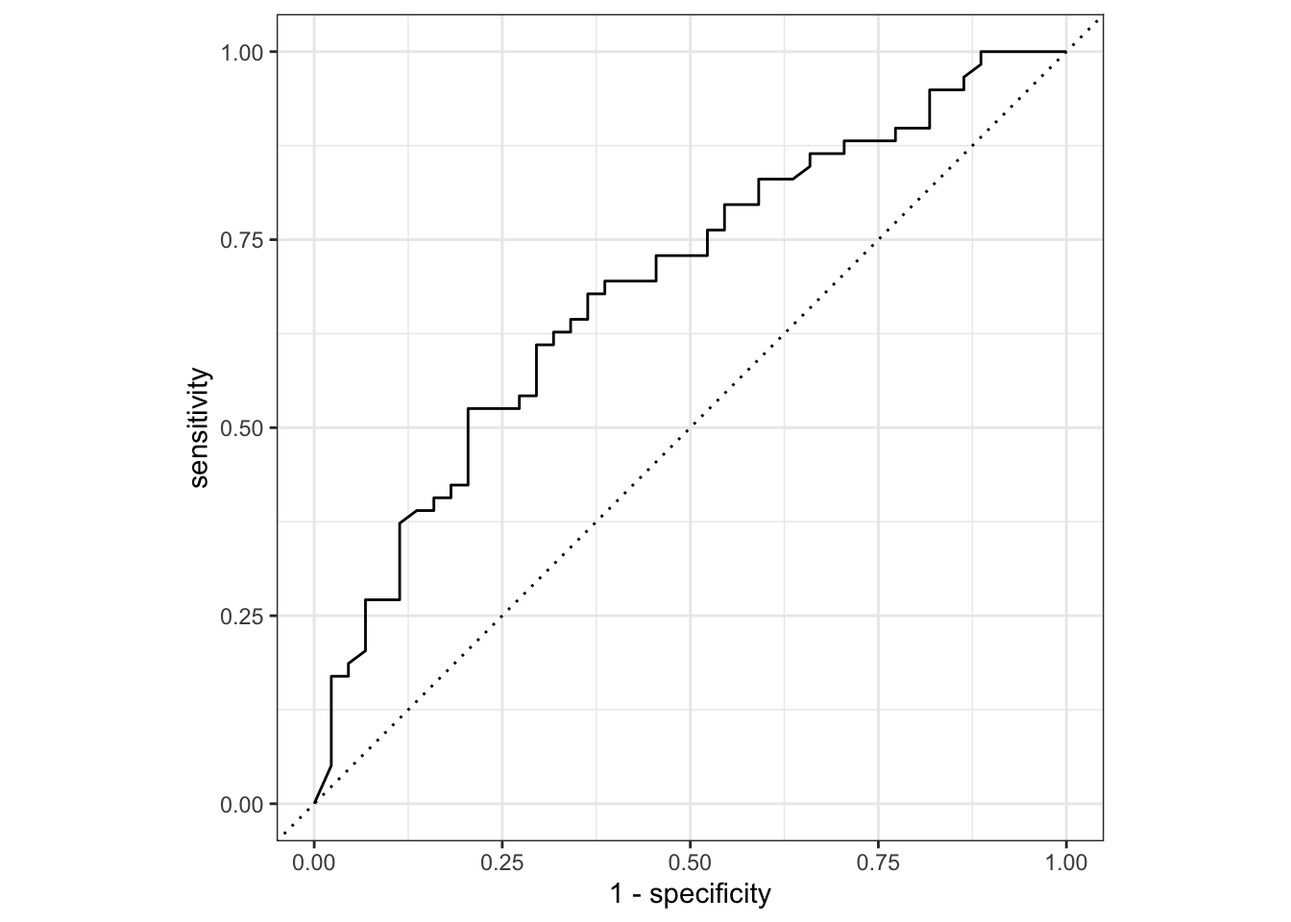
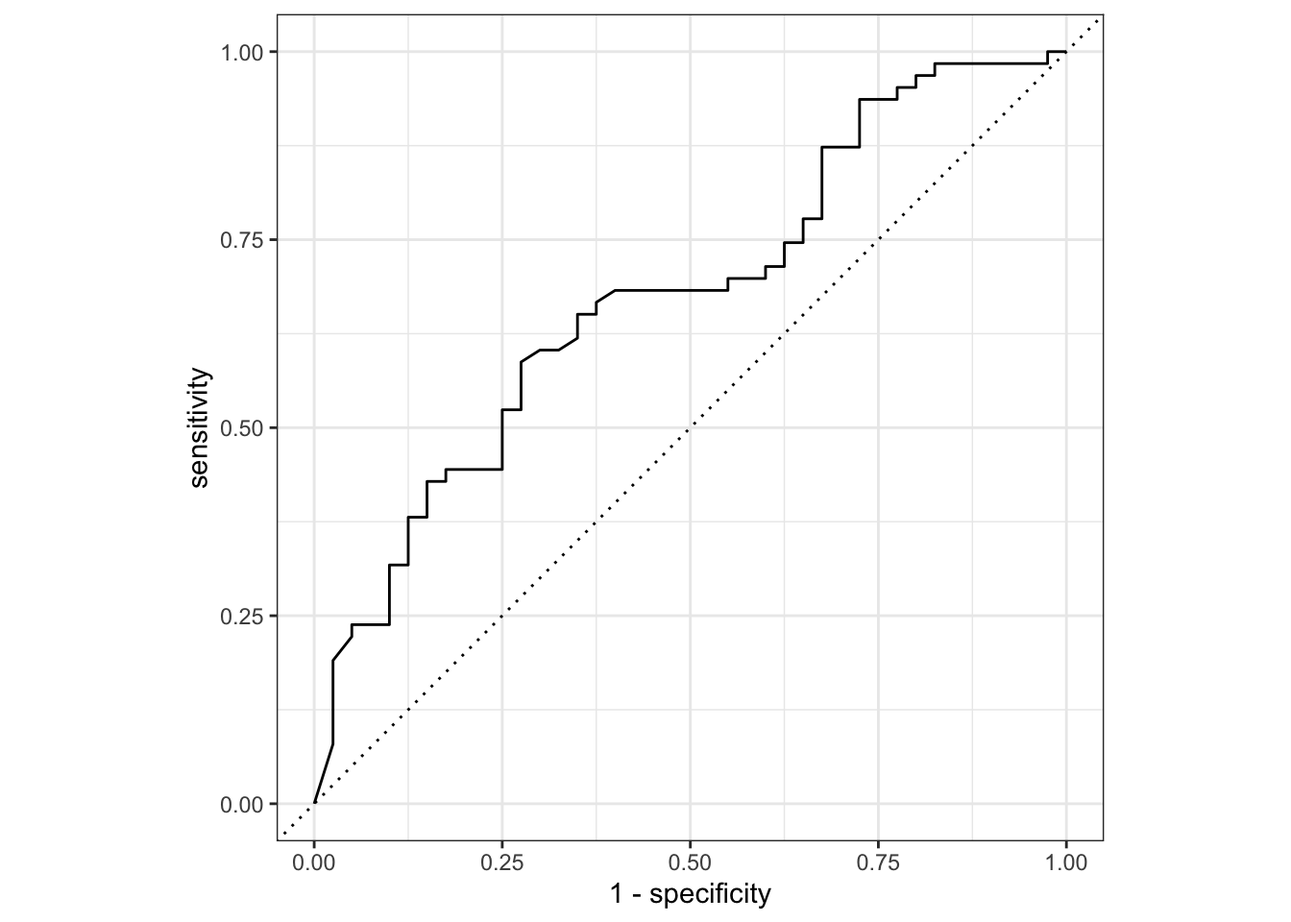
added functions

diff --git a/docs/classification-knn.html b/docs/classification-knn.html
@@ -593,7 +593,7 @@ code span.wa { color: #60a0b0; font-weight: bold; font-style: italic; } /* Warni
 <div class="cell">
 
 </div>
-<p><em>Version vom November 25, 2022 um 15:13:22</em></p>
+<p><em>Version vom November 25, 2022 um 15:40:11</em></p>
 <div class="quarto-figure quarto-figure-center">
 <figure class="figure">
 <p><img src="images/caution.png" class="img-fluid figure-img" style="width:50.0%"></p>
@@ -916,7 +916,7 @@ code span.wa { color: #60a0b0; font-weight: bold; font-style: italic; } /* Warni
 <pre><code># A tibble: 1 × 3
   .metric .estimator .estimate
   &lt;chr&gt;   &lt;chr&gt;          &lt;dbl&gt;
-1 roc_auc binary         0.690</code></pre>
+1 roc_auc binary         0.675</code></pre>
 </div>
 </div>
 <div class="cell">
@@ -926,24 +926,45 @@ code span.wa { color: #60a0b0; font-weight: bold; font-style: italic; } /* Warni
 <pre><code># A tibble: 1 × 3
   .metric  .estimator .estimate
   &lt;chr&gt;    &lt;chr&gt;          &lt;dbl&gt;
-1 accuracy binary         0.650</code></pre>
+1 accuracy binary         0.660</code></pre>
 </div>
 </div>
 <div class="cell">
 <div class="sourceCode cell-code" id="cb14"><pre class="sourceCode r code-with-copy"><code class="sourceCode r"><span id="cb14-1"><a href="#cb14-1" aria-hidden="true" tabindex="-1"></a>pig_cm <span class="ot">&lt;-</span> pig_aug <span class="sc">%&gt;%</span> </span>
 <span id="cb14-2"><a href="#cb14-2" aria-hidden="true" tabindex="-1"></a>  <span class="fu">conf_mat</span>(infected, .pred_class)</span>
 <span id="cb14-3"><a href="#cb14-3" aria-hidden="true" tabindex="-1"></a></span>
-<span id="cb14-4"><a href="#cb14-4" aria-hidden="true" tabindex="-1"></a><span class="fu">autoplot</span>(pig_cm, <span class="at">type =</span> <span class="st">"mosaic"</span>)</span></code><button title="In die Zwischenablage kopieren" class="code-copy-button"><i class="bi"></i></button></pre></div>
+<span id="cb14-4"><a href="#cb14-4" aria-hidden="true" tabindex="-1"></a>pig_cm <span class="sc">%&gt;%</span> <span class="fu">summary</span>()</span></code><button title="In die Zwischenablage kopieren" class="code-copy-button"><i class="bi"></i></button></pre></div>
+<div class="cell-output cell-output-stdout">
+<pre><code># A tibble: 13 × 3
+   .metric              .estimator .estimate
+   &lt;chr&gt;                &lt;chr&gt;          &lt;dbl&gt;
+ 1 accuracy             binary         0.660
+ 2 kap                  binary         0.201
+ 3 sens                 binary         0.275
+ 4 spec                 binary         0.905
+ 5 ppv                  binary         0.647
+ 6 npv                  binary         0.663
+ 7 mcc                  binary         0.236
+ 8 j_index              binary         0.180
+ 9 bal_accuracy         binary         0.590
+10 detection_prevalence binary         0.165
+11 precision            binary         0.647
+12 recall               binary         0.275
+13 f_meas               binary         0.386</code></pre>
+</div>
+</div>
+<div class="cell">
+<div class="sourceCode cell-code" id="cb16"><pre class="sourceCode r code-with-copy"><code class="sourceCode r"><span id="cb16-1"><a href="#cb16-1" aria-hidden="true" tabindex="-1"></a><span class="fu">autoplot</span>(pig_cm, <span class="at">type =</span> <span class="st">"mosaic"</span>)</span></code><button title="In die Zwischenablage kopieren" class="code-copy-button"><i class="bi"></i></button></pre></div>
 <div class="cell-output-display">
-<p><img src="classification-knn_files/figure-html/unnamed-chunk-14-1.png" class="img-fluid" width="672"></p>
+<p><img src="classification-knn_files/figure-html/unnamed-chunk-15-1.png" class="img-fluid" width="672"></p>
 </div>
 </div>
 </section>
 <section id="resampling" class="level2" data-number="52.5">
 <h2 data-number="52.5" class="anchored" data-anchor-id="resampling"><span class="header-section-number">52.5</span> Resampling</h2>
 <div class="cell">
-<div class="sourceCode cell-code" id="cb15"><pre class="sourceCode r code-with-copy"><code class="sourceCode r"><span id="cb15-1"><a href="#cb15-1" aria-hidden="true" tabindex="-1"></a>folds <span class="ot">&lt;-</span> <span class="fu">vfold_cv</span>(pig_train_data, <span class="at">v =</span> <span class="dv">10</span>)</span>
-<span id="cb15-2"><a href="#cb15-2" aria-hidden="true" tabindex="-1"></a>folds</span></code><button title="In die Zwischenablage kopieren" class="code-copy-button"><i class="bi"></i></button></pre></div>
+<div class="sourceCode cell-code" id="cb17"><pre class="sourceCode r code-with-copy"><code class="sourceCode r"><span id="cb17-1"><a href="#cb17-1" aria-hidden="true" tabindex="-1"></a>folds <span class="ot">&lt;-</span> <span class="fu">vfold_cv</span>(pig_train_data, <span class="at">v =</span> <span class="dv">10</span>)</span>
+<span id="cb17-2"><a href="#cb17-2" aria-hidden="true" tabindex="-1"></a>folds</span></code><button title="In die Zwischenablage kopieren" class="code-copy-button"><i class="bi"></i></button></pre></div>
 <div class="cell-output cell-output-stdout">
 <pre><code>#  10-fold cross-validation 
 # A tibble: 10 × 2
@@ -962,28 +983,28 @@ code span.wa { color: #60a0b0; font-weight: bold; font-style: italic; } /* Warni
 </div>
 </div>
 <div class="cell">
-<div class="sourceCode cell-code" id="cb17"><pre class="sourceCode r code-with-copy"><code class="sourceCode r"><span id="cb17-1"><a href="#cb17-1" aria-hidden="true" tabindex="-1"></a>pig_cv_fit <span class="ot">&lt;-</span> pig_wflow <span class="sc">%&gt;%</span> </span>
-<span id="cb17-2"><a href="#cb17-2" aria-hidden="true" tabindex="-1"></a>  <span class="fu">fit_resamples</span>(folds)</span></code><button title="In die Zwischenablage kopieren" class="code-copy-button"><i class="bi"></i></button></pre></div>
+<div class="sourceCode cell-code" id="cb19"><pre class="sourceCode r code-with-copy"><code class="sourceCode r"><span id="cb19-1"><a href="#cb19-1" aria-hidden="true" tabindex="-1"></a>pig_cv_fit <span class="ot">&lt;-</span> pig_wflow <span class="sc">%&gt;%</span> </span>
+<span id="cb19-2"><a href="#cb19-2" aria-hidden="true" tabindex="-1"></a>  <span class="fu">fit_resamples</span>(folds)</span></code><button title="In die Zwischenablage kopieren" class="code-copy-button"><i class="bi"></i></button></pre></div>
 </div>
 <div class="cell">
-<div class="sourceCode cell-code" id="cb18"><pre class="sourceCode r code-with-copy"><code class="sourceCode r"><span id="cb18-1"><a href="#cb18-1" aria-hidden="true" tabindex="-1"></a><span class="fu">collect_metrics</span>(pig_cv_fit)</span></code><button title="In die Zwischenablage kopieren" class="code-copy-button"><i class="bi"></i></button></pre></div>
+<div class="sourceCode cell-code" id="cb20"><pre class="sourceCode r code-with-copy"><code class="sourceCode r"><span id="cb20-1"><a href="#cb20-1" aria-hidden="true" tabindex="-1"></a><span class="fu">collect_metrics</span>(pig_cv_fit)</span></code><button title="In die Zwischenablage kopieren" class="code-copy-button"><i class="bi"></i></button></pre></div>
 <div class="cell-output cell-output-stdout">
 <pre><code># A tibble: 2 × 6
   .metric  .estimator  mean     n std_err .config             
   &lt;chr&gt;    &lt;chr&gt;      &lt;dbl&gt; &lt;int&gt;   &lt;dbl&gt; &lt;chr&gt;               
-1 accuracy binary     0.666    10  0.0323 Preprocessor1_Model1
-2 roc_auc  binary     0.642    10  0.0490 Preprocessor1_Model1</code></pre>
+1 accuracy binary     0.673    10  0.0235 Preprocessor1_Model1
+2 roc_auc  binary     0.686    10  0.0318 Preprocessor1_Model1</code></pre>
 </div>
 </div>
 </section>
 <section id="tuning" class="level2" data-number="52.6">
 <h2 data-number="52.6" class="anchored" data-anchor-id="tuning"><span class="header-section-number">52.6</span> Tuning</h2>
 <div class="cell">
-<div class="sourceCode cell-code" id="cb20"><pre class="sourceCode r code-with-copy"><code class="sourceCode r"><span id="cb20-1"><a href="#cb20-1" aria-hidden="true" tabindex="-1"></a>tune_spec <span class="ot">&lt;-</span> <span class="fu">nearest_neighbor</span>(<span class="at">neighbors =</span> <span class="fu">tune</span>(), <span class="at">weight_func =</span> <span class="fu">tune</span>(), <span class="at">dist_power =</span> <span class="fu">tune</span>()) <span class="sc">%&gt;%</span> </span>
-<span id="cb20-2"><a href="#cb20-2" aria-hidden="true" tabindex="-1"></a>  <span class="fu">set_engine</span>(<span class="st">"kknn"</span>) <span class="sc">%&gt;%</span> </span>
-<span id="cb20-3"><a href="#cb20-3" aria-hidden="true" tabindex="-1"></a>  <span class="fu">set_mode</span>(<span class="st">"classification"</span>) </span>
-<span id="cb20-4"><a href="#cb20-4" aria-hidden="true" tabindex="-1"></a></span>
-<span id="cb20-5"><a href="#cb20-5" aria-hidden="true" tabindex="-1"></a>tune_spec</span></code><button title="In die Zwischenablage kopieren" class="code-copy-button"><i class="bi"></i></button></pre></div>
+<div class="sourceCode cell-code" id="cb22"><pre class="sourceCode r code-with-copy"><code class="sourceCode r"><span id="cb22-1"><a href="#cb22-1" aria-hidden="true" tabindex="-1"></a>tune_spec <span class="ot">&lt;-</span> <span class="fu">nearest_neighbor</span>(<span class="at">neighbors =</span> <span class="fu">tune</span>(), <span class="at">weight_func =</span> <span class="fu">tune</span>(), <span class="at">dist_power =</span> <span class="fu">tune</span>()) <span class="sc">%&gt;%</span> </span>
+<span id="cb22-2"><a href="#cb22-2" aria-hidden="true" tabindex="-1"></a>  <span class="fu">set_engine</span>(<span class="st">"kknn"</span>) <span class="sc">%&gt;%</span> </span>
+<span id="cb22-3"><a href="#cb22-3" aria-hidden="true" tabindex="-1"></a>  <span class="fu">set_mode</span>(<span class="st">"classification"</span>) </span>
+<span id="cb22-4"><a href="#cb22-4" aria-hidden="true" tabindex="-1"></a></span>
+<span id="cb22-5"><a href="#cb22-5" aria-hidden="true" tabindex="-1"></a>tune_spec</span></code><button title="In die Zwischenablage kopieren" class="code-copy-button"><i class="bi"></i></button></pre></div>
 <div class="cell-output cell-output-stdout">
 <pre><code>K-Nearest Neighbor Model Specification (classification)
 
@@ -997,78 +1018,78 @@ Computational engine: kknn </code></pre>
 </div>
 <p>Ich nutze hier <code>levels = 2</code> damit hier die Ausführung nicht so lange läuft. Das ist natürlich etwas zu wenig. Fange am besten mit <code>levels = 5</code> an und schaue, wie lange das zusammen mit der Kreuzvalidierung dann dauert.</p>
 <div class="cell">
-<div class="sourceCode cell-code" id="cb22"><pre class="sourceCode r code-with-copy"><code class="sourceCode r"><span id="cb22-1"><a href="#cb22-1" aria-hidden="true" tabindex="-1"></a>pig_grid <span class="ot">&lt;-</span> <span class="fu">grid_regular</span>(<span class="fu">neighbors</span>(),</span>
-<span id="cb22-2"><a href="#cb22-2" aria-hidden="true" tabindex="-1"></a>                          <span class="fu">weight_func</span>(),</span>
-<span id="cb22-3"><a href="#cb22-3" aria-hidden="true" tabindex="-1"></a>                          <span class="fu">dist_power</span>(),</span>
-<span id="cb22-4"><a href="#cb22-4" aria-hidden="true" tabindex="-1"></a>                          <span class="at">levels =</span> <span class="dv">2</span>)</span></code><button title="In die Zwischenablage kopieren" class="code-copy-button"><i class="bi"></i></button></pre></div>
+<div class="sourceCode cell-code" id="cb24"><pre class="sourceCode r code-with-copy"><code class="sourceCode r"><span id="cb24-1"><a href="#cb24-1" aria-hidden="true" tabindex="-1"></a>pig_grid <span class="ot">&lt;-</span> <span class="fu">grid_regular</span>(<span class="fu">neighbors</span>(),</span>
+<span id="cb24-2"><a href="#cb24-2" aria-hidden="true" tabindex="-1"></a>                          <span class="fu">weight_func</span>(),</span>
+<span id="cb24-3"><a href="#cb24-3" aria-hidden="true" tabindex="-1"></a>                          <span class="fu">dist_power</span>(),</span>
+<span id="cb24-4"><a href="#cb24-4" aria-hidden="true" tabindex="-1"></a>                          <span class="at">levels =</span> <span class="dv">2</span>)</span></code><button title="In die Zwischenablage kopieren" class="code-copy-button"><i class="bi"></i></button></pre></div>
 </div>
 <p>Eigentlich ist eine 10-fache Kreuzvalidierung mit <span class="math inline">\(v=10\)</span> besser. Das dauert mir dann aber hier im Skript viel zu lange. Deshalb habe ich hier nur <span class="math inline">\(v=3\)</span> gewählt. Wenn du das Tuning rechnest, nimmst du natürlich eine 10-fach Kreuzvalidierung.</p>
 <div class="cell">
-<div class="sourceCode cell-code" id="cb23"><pre class="sourceCode r code-with-copy"><code class="sourceCode r"><span id="cb23-1"><a href="#cb23-1" aria-hidden="true" tabindex="-1"></a>pig_folds <span class="ot">&lt;-</span> <span class="fu">vfold_cv</span>(pig_train_data, <span class="at">v =</span> <span class="dv">3</span>)</span></code><button title="In die Zwischenablage kopieren" class="code-copy-button"><i class="bi"></i></button></pre></div>
+<div class="sourceCode cell-code" id="cb25"><pre class="sourceCode r code-with-copy"><code class="sourceCode r"><span id="cb25-1"><a href="#cb25-1" aria-hidden="true" tabindex="-1"></a>pig_folds <span class="ot">&lt;-</span> <span class="fu">vfold_cv</span>(pig_train_data, <span class="at">v =</span> <span class="dv">3</span>)</span></code><button title="In die Zwischenablage kopieren" class="code-copy-button"><i class="bi"></i></button></pre></div>
 </div>
 <div class="cell">
-<div class="sourceCode cell-code" id="cb24"><pre class="sourceCode r code-with-copy"><code class="sourceCode r"><span id="cb24-1"><a href="#cb24-1" aria-hidden="true" tabindex="-1"></a>pig_tune_wflow <span class="ot">&lt;-</span> <span class="fu">workflow</span>() <span class="sc">%&gt;%</span> </span>
-<span id="cb24-2"><a href="#cb24-2" aria-hidden="true" tabindex="-1"></a>  <span class="fu">add_model</span>(tune_spec) <span class="sc">%&gt;%</span> </span>
-<span id="cb24-3"><a href="#cb24-3" aria-hidden="true" tabindex="-1"></a>  <span class="fu">add_recipe</span>(pig_rec)</span></code><button title="In die Zwischenablage kopieren" class="code-copy-button"><i class="bi"></i></button></pre></div>
+<div class="sourceCode cell-code" id="cb26"><pre class="sourceCode r code-with-copy"><code class="sourceCode r"><span id="cb26-1"><a href="#cb26-1" aria-hidden="true" tabindex="-1"></a>pig_tune_wflow <span class="ot">&lt;-</span> <span class="fu">workflow</span>() <span class="sc">%&gt;%</span> </span>
+<span id="cb26-2"><a href="#cb26-2" aria-hidden="true" tabindex="-1"></a>  <span class="fu">add_model</span>(tune_spec) <span class="sc">%&gt;%</span> </span>
+<span id="cb26-3"><a href="#cb26-3" aria-hidden="true" tabindex="-1"></a>  <span class="fu">add_recipe</span>(pig_rec)</span></code><button title="In die Zwischenablage kopieren" class="code-copy-button"><i class="bi"></i></button></pre></div>
 </div>
 <p>Wenn du <code>control_grid(verbose = TRUE)</code> wählst, dann erhälst du eine Ausgabe wie weit das Tuning gerade ist.</p>
 <div class="cell">
-<div class="sourceCode cell-code" id="cb25"><pre class="sourceCode r code-with-copy"><code class="sourceCode r"><span id="cb25-1"><a href="#cb25-1" aria-hidden="true" tabindex="-1"></a>pig_tune_res <span class="ot">&lt;-</span> pig_tune_wflow <span class="sc">%&gt;%</span> </span>
-<span id="cb25-2"><a href="#cb25-2" aria-hidden="true" tabindex="-1"></a>   <span class="fu">tune_grid</span>(<span class="at">resamples =</span> pig_folds,</span>
-<span id="cb25-3"><a href="#cb25-3" aria-hidden="true" tabindex="-1"></a>             <span class="at">grid =</span> pig_grid,</span>
-<span id="cb25-4"><a href="#cb25-4" aria-hidden="true" tabindex="-1"></a>             <span class="at">control =</span> <span class="fu">control_grid</span>(<span class="at">verbose =</span> <span class="cn">FALSE</span>))</span></code><button title="In die Zwischenablage kopieren" class="code-copy-button"><i class="bi"></i></button></pre></div>
+<div class="sourceCode cell-code" id="cb27"><pre class="sourceCode r code-with-copy"><code class="sourceCode r"><span id="cb27-1"><a href="#cb27-1" aria-hidden="true" tabindex="-1"></a>pig_tune_res <span class="ot">&lt;-</span> pig_tune_wflow <span class="sc">%&gt;%</span> </span>
+<span id="cb27-2"><a href="#cb27-2" aria-hidden="true" tabindex="-1"></a>   <span class="fu">tune_grid</span>(<span class="at">resamples =</span> pig_folds,</span>
+<span id="cb27-3"><a href="#cb27-3" aria-hidden="true" tabindex="-1"></a>             <span class="at">grid =</span> pig_grid,</span>
+<span id="cb27-4"><a href="#cb27-4" aria-hidden="true" tabindex="-1"></a>             <span class="at">control =</span> <span class="fu">control_grid</span>(<span class="at">verbose =</span> <span class="cn">FALSE</span>))</span></code><button title="In die Zwischenablage kopieren" class="code-copy-button"><i class="bi"></i></button></pre></div>
 </div>
 <div class="cell">
-<div class="sourceCode cell-code" id="cb26"><pre class="sourceCode r code-with-copy"><code class="sourceCode r"><span id="cb26-1"><a href="#cb26-1" aria-hidden="true" tabindex="-1"></a>pig_tune_res <span class="sc">%&gt;%</span></span>
-<span id="cb26-2"><a href="#cb26-2" aria-hidden="true" tabindex="-1"></a>  <span class="fu">collect_metrics</span>() <span class="sc">%&gt;%</span></span>
-<span id="cb26-3"><a href="#cb26-3" aria-hidden="true" tabindex="-1"></a>  <span class="fu">mutate</span>(<span class="at">weight_func =</span> <span class="fu">as_factor</span>(weight_func),</span>
-<span id="cb26-4"><a href="#cb26-4" aria-hidden="true" tabindex="-1"></a>         <span class="at">dist_power =</span> <span class="fu">as_factor</span>(dist_power)) <span class="sc">%&gt;%</span></span>
-<span id="cb26-5"><a href="#cb26-5" aria-hidden="true" tabindex="-1"></a>  <span class="fu">ggplot</span>(<span class="fu">aes</span>(neighbors, mean, <span class="at">color =</span> weight_func, <span class="at">linetype =</span> dist_power)) <span class="sc">+</span></span>
-<span id="cb26-6"><a href="#cb26-6" aria-hidden="true" tabindex="-1"></a>  <span class="fu">geom_line</span>(<span class="at">size =</span> <span class="fl">1.5</span>, <span class="at">alpha =</span> <span class="fl">0.6</span>) <span class="sc">+</span></span>
-<span id="cb26-7"><a href="#cb26-7" aria-hidden="true" tabindex="-1"></a>  <span class="fu">geom_point</span>(<span class="at">size =</span> <span class="dv">2</span>) <span class="sc">+</span></span>
-<span id="cb26-8"><a href="#cb26-8" aria-hidden="true" tabindex="-1"></a>  <span class="fu">facet_wrap</span>(<span class="sc">~</span> .metric, <span class="at">scales =</span> <span class="st">"free"</span>, <span class="at">nrow =</span> <span class="dv">2</span>) <span class="sc">+</span></span>
-<span id="cb26-9"><a href="#cb26-9" aria-hidden="true" tabindex="-1"></a>  <span class="fu">scale_x_log10</span>(<span class="at">labels =</span> scales<span class="sc">::</span><span class="fu">label_number</span>()) <span class="sc">+</span></span>
-<span id="cb26-10"><a href="#cb26-10" aria-hidden="true" tabindex="-1"></a>  <span class="fu">scale_color_viridis_d</span>(<span class="at">option =</span> <span class="st">"plasma"</span>, <span class="at">begin =</span> .<span class="dv">9</span>, <span class="at">end =</span> <span class="dv">0</span>)</span></code><button title="In die Zwischenablage kopieren" class="code-copy-button"><i class="bi"></i></button></pre></div>
+<div class="sourceCode cell-code" id="cb28"><pre class="sourceCode r code-with-copy"><code class="sourceCode r"><span id="cb28-1"><a href="#cb28-1" aria-hidden="true" tabindex="-1"></a>pig_tune_res <span class="sc">%&gt;%</span></span>
+<span id="cb28-2"><a href="#cb28-2" aria-hidden="true" tabindex="-1"></a>  <span class="fu">collect_metrics</span>() <span class="sc">%&gt;%</span></span>
+<span id="cb28-3"><a href="#cb28-3" aria-hidden="true" tabindex="-1"></a>  <span class="fu">mutate</span>(<span class="at">weight_func =</span> <span class="fu">as_factor</span>(weight_func),</span>
+<span id="cb28-4"><a href="#cb28-4" aria-hidden="true" tabindex="-1"></a>         <span class="at">dist_power =</span> <span class="fu">as_factor</span>(dist_power)) <span class="sc">%&gt;%</span></span>
+<span id="cb28-5"><a href="#cb28-5" aria-hidden="true" tabindex="-1"></a>  <span class="fu">ggplot</span>(<span class="fu">aes</span>(neighbors, mean, <span class="at">color =</span> weight_func, <span class="at">linetype =</span> dist_power)) <span class="sc">+</span></span>
+<span id="cb28-6"><a href="#cb28-6" aria-hidden="true" tabindex="-1"></a>  <span class="fu">geom_line</span>(<span class="at">size =</span> <span class="fl">1.5</span>, <span class="at">alpha =</span> <span class="fl">0.6</span>) <span class="sc">+</span></span>
+<span id="cb28-7"><a href="#cb28-7" aria-hidden="true" tabindex="-1"></a>  <span class="fu">geom_point</span>(<span class="at">size =</span> <span class="dv">2</span>) <span class="sc">+</span></span>
+<span id="cb28-8"><a href="#cb28-8" aria-hidden="true" tabindex="-1"></a>  <span class="fu">facet_wrap</span>(<span class="sc">~</span> .metric, <span class="at">scales =</span> <span class="st">"free"</span>, <span class="at">nrow =</span> <span class="dv">2</span>) <span class="sc">+</span></span>
+<span id="cb28-9"><a href="#cb28-9" aria-hidden="true" tabindex="-1"></a>  <span class="fu">scale_x_log10</span>(<span class="at">labels =</span> scales<span class="sc">::</span><span class="fu">label_number</span>()) <span class="sc">+</span></span>
+<span id="cb28-10"><a href="#cb28-10" aria-hidden="true" tabindex="-1"></a>  <span class="fu">scale_color_viridis_d</span>(<span class="at">option =</span> <span class="st">"plasma"</span>, <span class="at">begin =</span> .<span class="dv">9</span>, <span class="at">end =</span> <span class="dv">0</span>)</span></code><button title="In die Zwischenablage kopieren" class="code-copy-button"><i class="bi"></i></button></pre></div>
 <div class="cell-output cell-output-stderr">
 <pre><code>Warning: Using `size` aesthetic for lines was deprecated in ggplot2 3.4.0.
 ℹ Please use `linewidth` instead.</code></pre>
 </div>
 <div class="cell-output-display">
-<p><img src="classification-knn_files/figure-html/unnamed-chunk-23-1.png" class="img-fluid" width="672"></p>
+<p><img src="classification-knn_files/figure-html/unnamed-chunk-24-1.png" class="img-fluid" width="672"></p>
 </div>
 </div>
 <div class="cell">
-<div class="sourceCode cell-code" id="cb28"><pre class="sourceCode r code-with-copy"><code class="sourceCode r"><span id="cb28-1"><a href="#cb28-1" aria-hidden="true" tabindex="-1"></a>pig_tune_res <span class="sc">%&gt;%</span></span>
-<span id="cb28-2"><a href="#cb28-2" aria-hidden="true" tabindex="-1"></a>  <span class="fu">show_best</span>(<span class="st">"accuracy"</span>)</span></code><button title="In die Zwischenablage kopieren" class="code-copy-button"><i class="bi"></i></button></pre></div>
+<div class="sourceCode cell-code" id="cb30"><pre class="sourceCode r code-with-copy"><code class="sourceCode r"><span id="cb30-1"><a href="#cb30-1" aria-hidden="true" tabindex="-1"></a>pig_tune_res <span class="sc">%&gt;%</span></span>
+<span id="cb30-2"><a href="#cb30-2" aria-hidden="true" tabindex="-1"></a>  <span class="fu">show_best</span>(<span class="st">"accuracy"</span>)</span></code><button title="In die Zwischenablage kopieren" class="code-copy-button"><i class="bi"></i></button></pre></div>
 <div class="cell-output cell-output-stdout">
 <pre><code># A tibble: 5 × 9
   neighbors weight_func dist_power .metric  .estim…¹  mean     n std_err .config
       &lt;int&gt; &lt;chr&gt;            &lt;dbl&gt; &lt;chr&gt;    &lt;chr&gt;    &lt;dbl&gt; &lt;int&gt;   &lt;dbl&gt; &lt;chr&gt;  
-1        10 rectangular          2 accuracy binary   0.680     3  0.0489 Prepro…
-2        10 rectangular          1 accuracy binary   0.670     3  0.0202 Prepro…
-3        10 triangular           2 accuracy binary   0.670     3  0.0312 Prepro…
-4        10 triangular           1 accuracy binary   0.650     3  0.0404 Prepro…
-5         1 rectangular          2 accuracy binary   0.628     3  0.0180 Prepro…
+1        10 triangular           1 accuracy binary   0.663     3 0.00856 Prepro…
+2        10 triangular           2 accuracy binary   0.650     3 0.0112  Prepro…
+3        10 rectangular          1 accuracy binary   0.647     3 0.00856 Prepro…
+4        10 rectangular          2 accuracy binary   0.647     3 0.00856 Prepro…
+5         1 rectangular          2 accuracy binary   0.608     3 0.0212  Prepro…
 # … with abbreviated variable name ¹.estimator</code></pre>
 </div>
 </div>
 <div class="cell">
-<div class="sourceCode cell-code" id="cb30"><pre class="sourceCode r code-with-copy"><code class="sourceCode r"><span id="cb30-1"><a href="#cb30-1" aria-hidden="true" tabindex="-1"></a>best_knn <span class="ot">&lt;-</span> pig_tune_res <span class="sc">%&gt;%</span></span>
-<span id="cb30-2"><a href="#cb30-2" aria-hidden="true" tabindex="-1"></a>  <span class="fu">select_best</span>(<span class="st">"accuracy"</span>)</span>
-<span id="cb30-3"><a href="#cb30-3" aria-hidden="true" tabindex="-1"></a></span>
-<span id="cb30-4"><a href="#cb30-4" aria-hidden="true" tabindex="-1"></a>best_knn</span></code><button title="In die Zwischenablage kopieren" class="code-copy-button"><i class="bi"></i></button></pre></div>
+<div class="sourceCode cell-code" id="cb32"><pre class="sourceCode r code-with-copy"><code class="sourceCode r"><span id="cb32-1"><a href="#cb32-1" aria-hidden="true" tabindex="-1"></a>best_knn <span class="ot">&lt;-</span> pig_tune_res <span class="sc">%&gt;%</span></span>
+<span id="cb32-2"><a href="#cb32-2" aria-hidden="true" tabindex="-1"></a>  <span class="fu">select_best</span>(<span class="st">"accuracy"</span>)</span>
+<span id="cb32-3"><a href="#cb32-3" aria-hidden="true" tabindex="-1"></a></span>
+<span id="cb32-4"><a href="#cb32-4" aria-hidden="true" tabindex="-1"></a>best_knn</span></code><button title="In die Zwischenablage kopieren" class="code-copy-button"><i class="bi"></i></button></pre></div>
 <div class="cell-output cell-output-stdout">
 <pre><code># A tibble: 1 × 4
   neighbors weight_func dist_power .config             
       &lt;int&gt; &lt;chr&gt;            &lt;dbl&gt; &lt;chr&gt;               
-1        10 rectangular          2 Preprocessor1_Model4</code></pre>
+1        10 triangular           1 Preprocessor1_Model6</code></pre>
 </div>
 </div>
 <div class="cell">
-<div class="sourceCode cell-code" id="cb32"><pre class="sourceCode r code-with-copy"><code class="sourceCode r"><span id="cb32-1"><a href="#cb32-1" aria-hidden="true" tabindex="-1"></a>final_pig_wf <span class="ot">&lt;-</span> pig_tune_wflow <span class="sc">%&gt;%</span> </span>
-<span id="cb32-2"><a href="#cb32-2" aria-hidden="true" tabindex="-1"></a>  <span class="fu">finalize_workflow</span>(best_knn)</span>
-<span id="cb32-3"><a href="#cb32-3" aria-hidden="true" tabindex="-1"></a></span>
-<span id="cb32-4"><a href="#cb32-4" aria-hidden="true" tabindex="-1"></a>final_pig_wf </span></code><button title="In die Zwischenablage kopieren" class="code-copy-button"><i class="bi"></i></button></pre></div>
+<div class="sourceCode cell-code" id="cb34"><pre class="sourceCode r code-with-copy"><code class="sourceCode r"><span id="cb34-1"><a href="#cb34-1" aria-hidden="true" tabindex="-1"></a>final_pig_wf <span class="ot">&lt;-</span> pig_tune_wflow <span class="sc">%&gt;%</span> </span>
+<span id="cb34-2"><a href="#cb34-2" aria-hidden="true" tabindex="-1"></a>  <span class="fu">finalize_workflow</span>(best_knn)</span>
+<span id="cb34-3"><a href="#cb34-3" aria-hidden="true" tabindex="-1"></a></span>
+<span id="cb34-4"><a href="#cb34-4" aria-hidden="true" tabindex="-1"></a>final_pig_wf </span></code><button title="In die Zwischenablage kopieren" class="code-copy-button"><i class="bi"></i></button></pre></div>
 <div class="cell-output cell-output-stdout">
 <pre><code>══ Workflow ════════════════════════════════════════════════════════════════════
 Preprocessor: Recipe
@@ -1086,31 +1107,31 @@ K-Nearest Neighbor Model Specification (classification)
 
 Main Arguments:
   neighbors = 10
-  weight_func = rectangular
-  dist_power = 2
+  weight_func = triangular
+  dist_power = 1
 
 Computational engine: kknn </code></pre>
 </div>
 </div>
 <div class="cell">
-<div class="sourceCode cell-code" id="cb34"><pre class="sourceCode r code-with-copy"><code class="sourceCode r"><span id="cb34-1"><a href="#cb34-1" aria-hidden="true" tabindex="-1"></a>final_fit <span class="ot">&lt;-</span> final_pig_wf <span class="sc">%&gt;%</span></span>
-<span id="cb34-2"><a href="#cb34-2" aria-hidden="true" tabindex="-1"></a>  <span class="fu">last_fit</span>(pig_data_split) </span>
-<span id="cb34-3"><a href="#cb34-3" aria-hidden="true" tabindex="-1"></a></span>
-<span id="cb34-4"><a href="#cb34-4" aria-hidden="true" tabindex="-1"></a>final_fit <span class="sc">%&gt;%</span></span>
-<span id="cb34-5"><a href="#cb34-5" aria-hidden="true" tabindex="-1"></a>  <span class="fu">collect_metrics</span>()</span></code><button title="In die Zwischenablage kopieren" class="code-copy-button"><i class="bi"></i></button></pre></div>
+<div class="sourceCode cell-code" id="cb36"><pre class="sourceCode r code-with-copy"><code class="sourceCode r"><span id="cb36-1"><a href="#cb36-1" aria-hidden="true" tabindex="-1"></a>final_fit <span class="ot">&lt;-</span> final_pig_wf <span class="sc">%&gt;%</span></span>
+<span id="cb36-2"><a href="#cb36-2" aria-hidden="true" tabindex="-1"></a>  <span class="fu">last_fit</span>(pig_data_split) </span>
+<span id="cb36-3"><a href="#cb36-3" aria-hidden="true" tabindex="-1"></a></span>
+<span id="cb36-4"><a href="#cb36-4" aria-hidden="true" tabindex="-1"></a>final_fit <span class="sc">%&gt;%</span></span>
+<span id="cb36-5"><a href="#cb36-5" aria-hidden="true" tabindex="-1"></a>  <span class="fu">collect_metrics</span>()</span></code><button title="In die Zwischenablage kopieren" class="code-copy-button"><i class="bi"></i></button></pre></div>
 <div class="cell-output cell-output-stdout">
 <pre><code># A tibble: 2 × 4
   .metric  .estimator .estimate .config             
   &lt;chr&gt;    &lt;chr&gt;          &lt;dbl&gt; &lt;chr&gt;               
 1 accuracy binary         0.641 Preprocessor1_Model1
-2 roc_auc  binary         0.698 Preprocessor1_Model1</code></pre>
+2 roc_auc  binary         0.659 Preprocessor1_Model1</code></pre>
 </div>
-<div class="sourceCode cell-code" id="cb36"><pre class="sourceCode r code-with-copy"><code class="sourceCode r"><span id="cb36-1"><a href="#cb36-1" aria-hidden="true" tabindex="-1"></a>final_fit <span class="sc">%&gt;%</span></span>
-<span id="cb36-2"><a href="#cb36-2" aria-hidden="true" tabindex="-1"></a>  <span class="fu">collect_predictions</span>() <span class="sc">%&gt;%</span> </span>
-<span id="cb36-3"><a href="#cb36-3" aria-hidden="true" tabindex="-1"></a>  <span class="fu">roc_curve</span>(infected, .pred_1, <span class="at">event_level =</span> <span class="st">"second"</span>) <span class="sc">%&gt;%</span> </span>
-<span id="cb36-4"><a href="#cb36-4" aria-hidden="true" tabindex="-1"></a>  <span class="fu">autoplot</span>()</span></code><button title="In die Zwischenablage kopieren" class="code-copy-button"><i class="bi"></i></button></pre></div>
+<div class="sourceCode cell-code" id="cb38"><pre class="sourceCode r code-with-copy"><code class="sourceCode r"><span id="cb38-1"><a href="#cb38-1" aria-hidden="true" tabindex="-1"></a>final_fit <span class="sc">%&gt;%</span></span>
+<span id="cb38-2"><a href="#cb38-2" aria-hidden="true" tabindex="-1"></a>  <span class="fu">collect_predictions</span>() <span class="sc">%&gt;%</span> </span>
+<span id="cb38-3"><a href="#cb38-3" aria-hidden="true" tabindex="-1"></a>  <span class="fu">roc_curve</span>(infected, .pred_1, <span class="at">event_level =</span> <span class="st">"second"</span>) <span class="sc">%&gt;%</span> </span>
+<span id="cb38-4"><a href="#cb38-4" aria-hidden="true" tabindex="-1"></a>  <span class="fu">autoplot</span>()</span></code><button title="In die Zwischenablage kopieren" class="code-copy-button"><i class="bi"></i></button></pre></div>
 <div class="cell-output-display">
-<p><img src="classification-knn_files/figure-html/unnamed-chunk-27-1.png" class="img-fluid" width="672"></p>
+<p><img src="classification-knn_files/figure-html/unnamed-chunk-28-1.png" class="img-fluid" width="672"></p>
 </div>
 </div>
 </section>
@@ -1119,37 +1140,37 @@ Computational engine: kknn </code></pre>
 <p>Neben der Klassifikation können wir den <span class="math inline">\(k\)</span>-NN Algorithmus auch nutzen um Gruppen in den Daten zu finden. Die Idee ist recht einfach. Wir geben <span class="math inline">\(k\)</span> Cluster vor und der Algorithmus versucht nun die Daten so zu ordnen, dass sich <span class="math inline">\(k\)</span> Cluster bilden. Je nach der Nähe der Beobachtungen zueinander lassen sich dann mehr oder minder klar abgegrenzte Cluster bilden. Das Problem an der Sache ist die Definition von <span class="math inline">\(k\)</span> für die Anzahl der zu bildenden Cluster. Wir müssen nämlich selber festlegen, wie viele Cluster wir erwarten würden und der Algorithmus dann finden wird. Wenn wir <span class="math inline">\(k = 3\)</span> der Funktion <code>kmeans</code> mitgeben, dann findet die Funktion drei Cluster. Auch wenn zwei mehr Sinn gemacht hätten. Daher müssen wir immer selber ausprobieren und uns die Daten visualisieren, ob das mit den Clustern so passt.</p>
 <p>Für Clusterbildung können wir nur numerische Variablen verwenden. Daher müssen wir hier über die Funktion <code>step_dummy</code> alle nominalen Variablen wie Faktoren in eine <span class="math inline">\(0/1\)</span>-Kodierung umwandeln. Das ist eine Einschränkung des kmeans Algorithmus.</p>
 <div class="cell">
-<div class="sourceCode cell-code" id="cb37"><pre class="sourceCode r code-with-copy"><code class="sourceCode r"><span id="cb37-1"><a href="#cb37-1" aria-hidden="true" tabindex="-1"></a>pig_kmeans_rec <span class="ot">&lt;-</span> <span class="fu">recipe</span>(infected <span class="sc">~</span> age <span class="sc">+</span> sex <span class="sc">+</span> location <span class="sc">+</span> activity <span class="sc">+</span> crp <span class="sc">+</span> </span>
-<span id="cb37-2"><a href="#cb37-2" aria-hidden="true" tabindex="-1"></a>                           frailty <span class="sc">+</span> bloodpressure <span class="sc">+</span> weight <span class="sc">+</span> creatinin,</span>
-<span id="cb37-3"><a href="#cb37-3" aria-hidden="true" tabindex="-1"></a>                         <span class="at">data =</span> pig_train_data) <span class="sc">%&gt;%</span> </span>
-<span id="cb37-4"><a href="#cb37-4" aria-hidden="true" tabindex="-1"></a>  <span class="fu">step_dummy</span>(<span class="fu">all_nominal_predictors</span>()) </span></code><button title="In die Zwischenablage kopieren" class="code-copy-button"><i class="bi"></i></button></pre></div>
+<div class="sourceCode cell-code" id="cb39"><pre class="sourceCode r code-with-copy"><code class="sourceCode r"><span id="cb39-1"><a href="#cb39-1" aria-hidden="true" tabindex="-1"></a>pig_kmeans_rec <span class="ot">&lt;-</span> <span class="fu">recipe</span>(infected <span class="sc">~</span> age <span class="sc">+</span> sex <span class="sc">+</span> location <span class="sc">+</span> activity <span class="sc">+</span> crp <span class="sc">+</span> </span>
+<span id="cb39-2"><a href="#cb39-2" aria-hidden="true" tabindex="-1"></a>                           frailty <span class="sc">+</span> bloodpressure <span class="sc">+</span> weight <span class="sc">+</span> creatinin,</span>
+<span id="cb39-3"><a href="#cb39-3" aria-hidden="true" tabindex="-1"></a>                         <span class="at">data =</span> pig_train_data) <span class="sc">%&gt;%</span> </span>
+<span id="cb39-4"><a href="#cb39-4" aria-hidden="true" tabindex="-1"></a>  <span class="fu">step_dummy</span>(<span class="fu">all_nominal_predictors</span>()) </span></code><button title="In die Zwischenablage kopieren" class="code-copy-button"><i class="bi"></i></button></pre></div>
 </div>
 <div class="cell">
-<div class="sourceCode cell-code" id="cb38"><pre class="sourceCode r code-with-copy"><code class="sourceCode r"><span id="cb38-1"><a href="#cb38-1" aria-hidden="true" tabindex="-1"></a>pig_dummy_tbl <span class="ot">&lt;-</span> pig_kmeans_rec <span class="sc">%&gt;%</span> </span>
-<span id="cb38-2"><a href="#cb38-2" aria-hidden="true" tabindex="-1"></a>  prep <span class="sc">%&gt;%</span> </span>
-<span id="cb38-3"><a href="#cb38-3" aria-hidden="true" tabindex="-1"></a>  <span class="fu">juice</span>()</span></code><button title="In die Zwischenablage kopieren" class="code-copy-button"><i class="bi"></i></button></pre></div>
+<div class="sourceCode cell-code" id="cb40"><pre class="sourceCode r code-with-copy"><code class="sourceCode r"><span id="cb40-1"><a href="#cb40-1" aria-hidden="true" tabindex="-1"></a>pig_dummy_tbl <span class="ot">&lt;-</span> pig_kmeans_rec <span class="sc">%&gt;%</span> </span>
+<span id="cb40-2"><a href="#cb40-2" aria-hidden="true" tabindex="-1"></a>  prep <span class="sc">%&gt;%</span> </span>
+<span id="cb40-3"><a href="#cb40-3" aria-hidden="true" tabindex="-1"></a>  <span class="fu">juice</span>()</span></code><button title="In die Zwischenablage kopieren" class="code-copy-button"><i class="bi"></i></button></pre></div>
 </div>
 <div class="cell">
-<div class="sourceCode cell-code" id="cb39"><pre class="sourceCode r code-with-copy"><code class="sourceCode r"><span id="cb39-1"><a href="#cb39-1" aria-hidden="true" tabindex="-1"></a>kmeans_obj <span class="ot">&lt;-</span> <span class="fu">kmeans</span>(pig_dummy_tbl, <span class="at">centers =</span> <span class="dv">3</span>)</span></code><button title="In die Zwischenablage kopieren" class="code-copy-button"><i class="bi"></i></button></pre></div>
+<div class="sourceCode cell-code" id="cb41"><pre class="sourceCode r code-with-copy"><code class="sourceCode r"><span id="cb41-1"><a href="#cb41-1" aria-hidden="true" tabindex="-1"></a>kmeans_obj <span class="ot">&lt;-</span> <span class="fu">kmeans</span>(pig_dummy_tbl, <span class="at">centers =</span> <span class="dv">3</span>)</span></code><button title="In die Zwischenablage kopieren" class="code-copy-button"><i class="bi"></i></button></pre></div>
 </div>
 <div class="cell">
-<div class="sourceCode cell-code" id="cb40"><pre class="sourceCode r code-with-copy"><code class="sourceCode r"><span id="cb40-1"><a href="#cb40-1" aria-hidden="true" tabindex="-1"></a>pig_dummy_tbl <span class="sc">%&gt;%</span> </span>
-<span id="cb40-2"><a href="#cb40-2" aria-hidden="true" tabindex="-1"></a>  <span class="fu">bind_cols</span>(<span class="at">cluster =</span> <span class="fu">pluck</span>(kmeans_obj, <span class="st">"cluster"</span>)) <span class="sc">%&gt;%</span> </span>
-<span id="cb40-3"><a href="#cb40-3" aria-hidden="true" tabindex="-1"></a>  <span class="fu">select</span>(cluster, <span class="fu">everything</span>())</span></code><button title="In die Zwischenablage kopieren" class="code-copy-button"><i class="bi"></i></button></pre></div>
+<div class="sourceCode cell-code" id="cb42"><pre class="sourceCode r code-with-copy"><code class="sourceCode r"><span id="cb42-1"><a href="#cb42-1" aria-hidden="true" tabindex="-1"></a>pig_dummy_tbl <span class="sc">%&gt;%</span> </span>
+<span id="cb42-2"><a href="#cb42-2" aria-hidden="true" tabindex="-1"></a>  <span class="fu">bind_cols</span>(<span class="at">cluster =</span> <span class="fu">pluck</span>(kmeans_obj, <span class="st">"cluster"</span>)) <span class="sc">%&gt;%</span> </span>
+<span id="cb42-3"><a href="#cb42-3" aria-hidden="true" tabindex="-1"></a>  <span class="fu">select</span>(cluster, <span class="fu">everything</span>())</span></code><button title="In die Zwischenablage kopieren" class="code-copy-button"><i class="bi"></i></button></pre></div>
 <div class="cell-output cell-output-stdout">
 <pre><code># A tibble: 309 × 14
    cluster   age activity   crp bloodpr…¹ weight creat…² infec…³ sex_m…⁴ locat…⁵
      &lt;int&gt; &lt;dbl&gt;    &lt;dbl&gt; &lt;dbl&gt;     &lt;dbl&gt;  &lt;dbl&gt;   &lt;dbl&gt; &lt;fct&gt;     &lt;dbl&gt;   &lt;dbl&gt;
- 1       3    61     15.3  22.4      49.9   16.9    3.07 1             1       1
- 2       2    63     14.4  20.6      54.9   17.6    5.45 1             1       0
- 3       3    57     15.3  23.0      56.5   18.7    5.03 1             1       0
- 4       3    57     15.7  21.6      58.8   18.0    4.19 1             1       0
- 5       3    59     14.7  22.7      56.5   17.9    5.4  1             1       1
- 6       1    57     14.8  22.4      60.7   17.7    5.77 1             1       0
- 7       1    57     10.7  17.5      63.7   20.2    4.34 0             0       0
- 8       1    63     13.2  20.5      65.6   17.9    5.87 0             1       0
- 9       3    60      7.6  19.5      54.8   19.6    5.65 0             0       1
-10       3    53     13.5  19.8      57.1   17.1    4.81 1             1       1
+ 1       2    63     16.0  20.5      55.8   16.3    5.25 1             1       0
+ 2       2    63     10.0  19.9      55.8   17.8    6.18 1             0       0
+ 3       1    60     13.6  21.1      57.8   17.2    5.98 1             0       1
+ 4       3    61     13.4  20.7      53.4   15.4    4.65 1             1       0
+ 5       1    59     13.3  19.4      56.5   19.0    5.18 0             0       0
+ 6       1    57     15.6  20.0      56.8   17.7    6.64 1             1       0
+ 7       1    59     13.1  20.2      57.3   17.2    5.42 1             0       0
+ 8       1    60     13.7  18.7      59.9   15.8    4.75 0             1       0
+ 9       1    57     12.0  19.2      58.6   17.5    4.12 1             1       0
+10       2    63     11.1  22.6      56.4   19.3    5.97 0             0       0
 # … with 299 more rows, 4 more variables: location_northwest &lt;dbl&gt;,
 #   location_west &lt;dbl&gt;, frailty_pre.frail &lt;dbl&gt;, frailty_robust &lt;dbl&gt;, and
 #   abbreviated variable names ¹bloodpressure, ²creatinin, ³infected,
